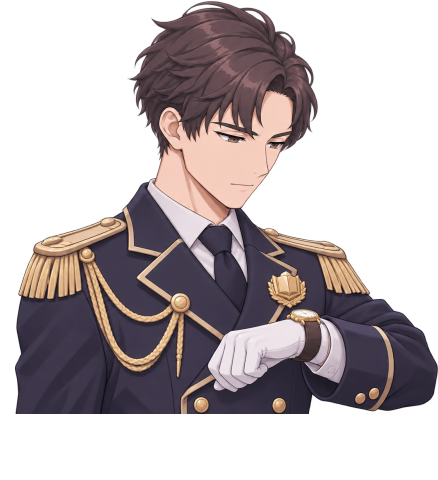
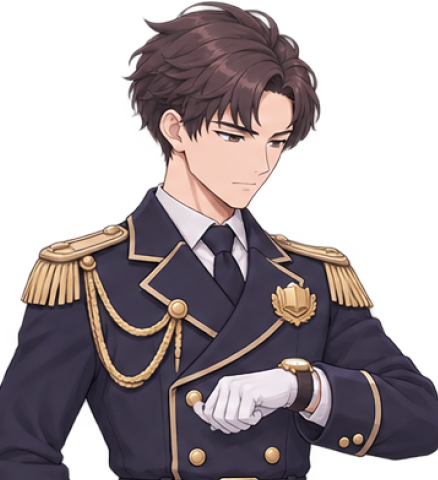
이안 착장 2벌 카드를 전신 그림에서 잘라 아래까지 채움
Claude-Session: https://claude.ai/code/session_01SbFuD9LBQUw7gFTz2Mmv9g

diff --git a/tests/test_character.py b/tests/test_character.py
@@ -2345,8 +2345,7 @@ def test_drawer_cells_use_card_ratio_and_fill_to_bottom(app, cfg):
     from mabinogi_addon.ui import character_tab as ct
 
     assert abs(ct.CELL_W / ct.CELL_H - ct.CARD_W / ct.CARD_H) < 0.01
-    # 이안 두 벌은 원본 상반신이 허리 위에서 끝나 큰 카드에서도 아래가 빔 — 기획에 긴 상반신 재생성 요청(11-25)
-    awaiting = {("이안", "vest_tie"), ("이안", "guild_uniform")}
+    awaiting = set()   # 이안 두 벌은 전신.png에서 잘라 아래까지 참(사용자 11-25 '전신이 있으니 잘라 쓰면 되잖아')
     for folder, items in outfits.OUTFITS.items():
         character = next(c for c in roster.ROSTER if c.known and roster.folder(c) == folder)
         for o in items:
@@ -2359,3 +2358,36 @@ def test_drawer_cells_use_card_ratio_and_fill_to_bottom(app, cfg):
             y = int(1 + frame_h - 5)   # 칸 그림 아래 끝 바로 위(흰 테두리 안쪽)
             white = sum(1 for x in range(w // 3, 2 * w // 3) if image.pixelColor(x, y).lightness() > 245)
             assert white < (w // 3) * 0.5, (folder, o.key, white)
+
+
+
+def test_outfit_card_images_reach_bottom_with_face_in_place():
+    """착장 card.png 8장: 얼굴은 기본 카드와 크기 ±5%·위치 ±6px, 전신에서 자른 이안 두 벌은 아래 끝 줄까지 그림."""
+    import cv2
+    import numpy as np
+
+    from mabinogi_addon.character import outfits
+    from mabinogi_addon.image_io import imread
+    from scripts.build_outfit_cards import FACE, FROM_FULL
+
+    def gray(im):
+        a = im[..., 3] / 255
+        return (cv2.cvtColor(np.ascontiguousarray(im[..., :3]), cv2.COLOR_BGR2GRAY) * a + 255 * (1 - a)).astype(np.uint8)
+
+    for folder, items in outfits.OUTFITS.items():
+        base = imread(ASSETS / folder / "card.png", cv2.IMREAD_UNCHANGED)
+        h, w = base.shape[:2]
+        y0, y1, x0, x1 = int(FACE[0] * h), int(FACE[1] * h), int(FACE[2] * w), int(FACE[3] * w)
+        tmpl = gray(base)[y0:y1, x0:x1]
+        for o in items[1:]:
+            card = imread(ASSETS / outfits.asset(folder, o.key, "card.png"), cv2.IMREAD_UNCHANGED)
+            if (folder, o.key) in FROM_FULL:   # 나머지 6벌은 아래 띠가 화면에서 잘리는 자리(서랍·카드 테스트가 확인)
+                assert (card[-4:, w // 3: 2 * w // 3, 3] > 128).mean() > 0.9, (folder, o.key)
+            best = (-1.0, 1.0, 0.0, 0.0)
+            for k in np.linspace(0.9, 1.1, 41):
+                t = cv2.resize(tmpl, None, fx=k, fy=k)
+                _, score, _, loc = cv2.minMaxLoc(cv2.matchTemplate(gray(card), t, cv2.TM_CCOEFF_NORMED))
+                if score > best[0]:
+                    best = (score, k, loc[0] + t.shape[1] / 2 - (x0 + x1) / 2, loc[1] + t.shape[0] / 2 - (y0 + y1) / 2)
+            _, k, dx, dy = best
+            assert abs(k - 1) <= 0.05 + 1e-9 and abs(dx) <= 6 and abs(dy) <= 6, (folder, o.key, best)

diff --git a/scripts/build_outfit_cards.py b/scripts/build_outfit_cards.py
@@ -19,7 +19,10 @@ from mabinogi_addon.image_io import imread, imwrite
 ROOT = Path(__file__).resolve().parents[1]
 SRC = ROOT / "docs" / "characters" / "assets"
 ASSETS = ROOT / "src" / "mabinogi_addon" / "assets" / "characters"
-FACE = (0.18, 0.55, 0.28, 0.72)   # 세로 위·아래, 가로 왼·오른(비율)
+FACE = (0.18, 0.55, 0.28, 0.72)
+# 상반신이 허리 위에서 끝나 카드 아래가 비는 옷 → 전신.png를 잘라 씀(사용자 11-25 '전신이 있으니 잘라 쓰면 되잖아'),
+# 전신은 작게 그려져 있어 배율 상한을 조금 올림
+FROM_FULL = {("이안", "vest_tie"): ("전신.png", 1.25), ("이안", "guild_uniform"): ("전신.png", 1.25)}   # 배율 0.002 단위로   # 세로 위·아래, 가로 왼·오른(비율)
 
 
 def _gray_on_white(rgba: np.ndarray) -> np.ndarray:
@@ -28,14 +31,15 @@ def _gray_on_white(rgba: np.ndarray) -> np.ndarray:
     return (g * a + 255 * (1 - a))[..., 0].astype(np.uint8)
 
 
-def fit(card: np.ndarray, upper: np.ndarray) -> tuple[np.ndarray, float, float]:
+def fit(card: np.ndarray, upper: np.ndarray, max_k: float = 1.2, step: float = 0.01) -> tuple[np.ndarray, float, float]:
     """(카드 크기 그림, 일치 점수, 배율)."""
     h, w = card.shape[:2]
     y0, y1, x0, x1 = (int(FACE[0] * h), int(FACE[1] * h), int(FACE[2] * w), int(FACE[3] * w))
     tmpl = _gray_on_white(card)[y0:y1, x0:x1]
     gray = _gray_on_white(upper)
     best = (-2.0, 1.0, (0, 0))
-    for k in np.linspace(0.25, 1.2, 96):
+    lo = 0.25 if step >= 0.01 else max(0.25, max_k - 0.2)   # 촘촘히 찾을 땐 상한 근처만(전신은 배율 1.0~1.25)
+    for k in np.linspace(lo, max_k, int(round((max_k - lo) / step)) + 1):
         g = cv2.resize(gray, None, fx=k, fy=k, interpolation=cv2.INTER_AREA)
         if g.shape[0] < tmpl.shape[0] or g.shape[1] < tmpl.shape[1]:
             continue
@@ -62,8 +66,9 @@ def build() -> list[tuple[str, str, float, float]]:
         for outfit in items:
             if outfit.key == outfits.BASE:
                 continue
-            upper = imread(SRC / folder / "의상" / outfit.name / "상반신.png", cv2.IMREAD_UNCHANGED)
-            image, score, k = fit(card, upper)
+            source, max_k = FROM_FULL.get((folder, outfit.key), ("상반신.png", 1.2))
+            upper = imread(SRC / folder / "의상" / outfit.name / source, cv2.IMREAD_UNCHANGED)
+            image, score, k = fit(card, upper, max_k, 0.002 if (folder, outfit.key) in FROM_FULL else 0.01)
             dest = ASSETS / outfits.asset(folder, outfit.key, "card.png")
             dest.parent.mkdir(parents=True, exist_ok=True)
             imwrite(dest, image)

diff --git a/docs/status.md b/docs/status.md
@@ -5142,3 +5142,4 @@
 - **아리아 100 '가벼운 여름 드레스' 다시 받음·통과(기획 11-25)**: 새 `원본_두칸.png`(1536×1024, 투명 배경) → `전신.png`(452×1016)·`상반신.png`(801×1018)로 자름, 1차 3장은 `예전/`. 손·팔 둘(한 손은 모자 챙, 전신은 다른 손으로 치마 자락), 처음 상반신·티셔츠 상반신과 같은 높이로 놓아 얼굴 크기·눈 높이 같음, 위 여백 6px(처음 상반신 11px와 비슷). DEV에 카드 착장 그림 다시 빌드 요청.
 - **이안 착장 상반신 아래로 늘리기 요청문(기획 11-25, DEV 요청 — 카드·서랍 아래 약 18px 빔)**: 넥타이 조끼·길드 고위 정복만(다른 6벌은 DEV 확인 — 문제없음). `의상_요청문_GPT복사용.md` 끝 '이안 착장 상반신 아래로 늘리기'(첨부 상반신+전신, 새 대화, 세로 약 1.4배) → **취소(사용자 11-25 '전신 잘라 쓰면 됨')**: 전신.png 1.22배로 카드 채움 확인(시안 `assets/공용/시안/카드_이안착장_전신에서자름.jpg`) → DEV에 전신으로 card.png 만들기 요청.
 - **아리아 ♥100 여름 드레스 새 그림(DEV 11-25, 기획 — 사용자 '머리에 팔이 두 개')**: `build_outfit_cards`로 summer_dress card.png만 바뀜(얼굴 맞춤 일치 0.66·배율 0.51). 서랍 칸 4:5·입은 카드 아래 끝까지 참, 모자 챙은 카드 양옆에서 조금 잘림. 렌더 docs/assets/character-outfits-20261125/aria_summer_v2.png(왼쪽 기본+서랍, 오른쪽 여름 드레스 입음).
+- **이안 착장 2벌 카드 — 전신에서 자름(DEV 11-25, 기획 — 사용자 '전신이 있으니 잘라 쓰면 되잖아')**: `build_outfit_cards.FROM_FULL`(이안 vest_tie·guild_uniform → 전신.png, 배율 상한 1.25·0.002 단위) — 배율 1.23, 일치 0.80·0.72(우리 회색 합성 기준), card 아래 끝 줄 가운데 1/3 모두 그림, 얼굴 기본 카드와 ±5%·±6px. 나머지 6벌 그대로. 테스트 test_outfit_card_images_reach_bottom_with_face_in_place, 서랍 테스트 대기 목록 비움. 렌더 docs/assets/character-outfits-20261125/ian_outfits_from_full.png(기본·조끼·정복 입음 + 서랍).
